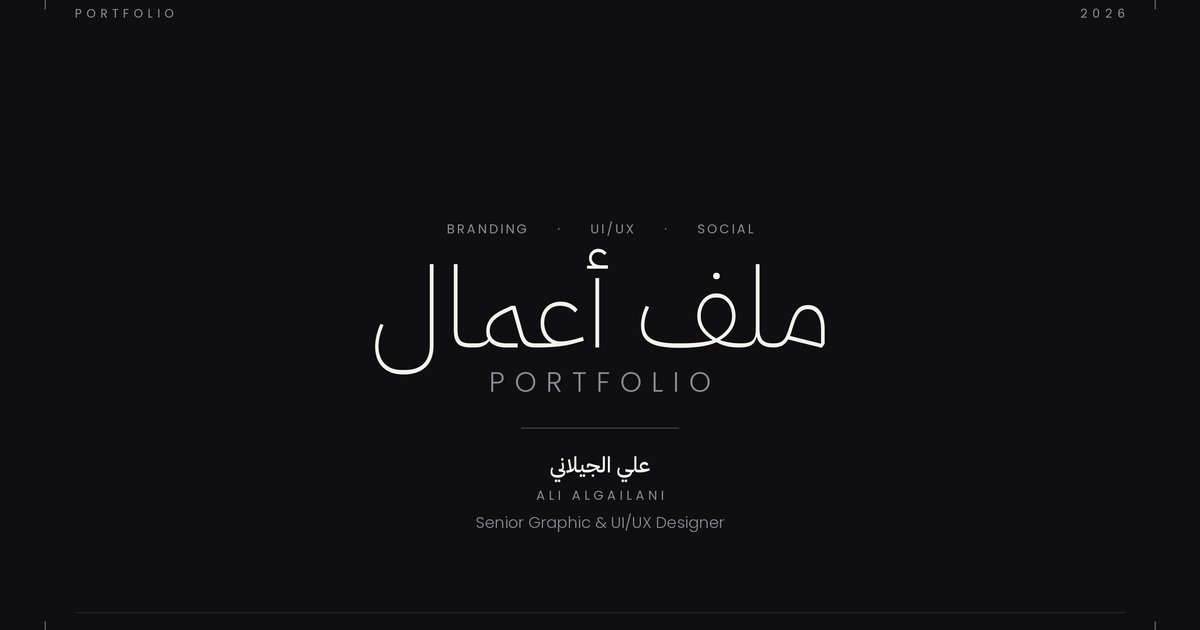
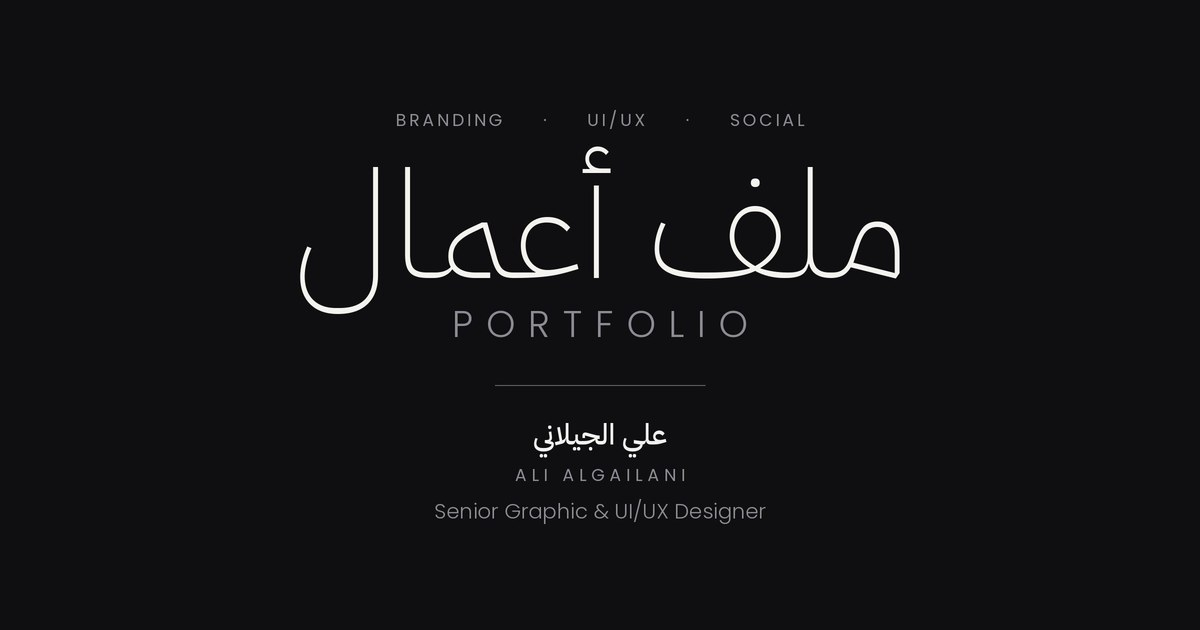
Link previews: absolute share image, Arabic-first title and description
WhatsApp, X and LinkedIn need absolute og:image URLs to show a preview card.
Recut og.jpg from the portfolio cover (1200x630), added og:url, site name,
image alt, locales and a canonical link.

Claude-Session: https://claude.ai/code/session_01QDdZxJhtLLmVgTgWh1AcoM

diff --git a/index.html b/index.html
@@ -7,21 +7,27 @@
     <meta name="description" content="Portfolio of Ali Algailani (علي الجيلاني), Senior Graphic &amp; UI/UX Designer in Saudi Arabia — logos, visual identities, mobile app UI/UX, corporate profiles, print and social media design." />
     <meta name="author" content="Ali Algailani" />
     <meta name="theme-color" content="#111113" />
+    <link rel="canonical" href="https://ali-algailani-portfolio-2026.vercel.app/" />
     <meta name="color-scheme" content="dark light" />
     <link rel="icon" href="favicon.svg" type="image/svg+xml" />
 
     <meta property="og:type" content="website" />
-    <meta property="og:title" content="Ali Al-Gailani — Senior Graphic &amp; UI/UX Designer" />
-    <meta property="og:description" content="Logos, visual identities, UI/UX, company profiles, print and social media — the 2026 portfolio of Ali Algailani." />
-    <meta property="og:image" content="og.jpg" />
+    <meta property="og:title" content="علي الجيلاني | Ali Algailani — مصمم جرافيك وواجهات مستخدم أول" />
+    <meta property="og:description" content="ملف أعمال 2026: شعارات، هويات بصرية، واجهات تطبيقات، بروفايلات شركات، مطبوعات وسوشيال ميديا. Senior Graphic &amp; UI/UX Designer — Saudi Arabia." />
+    <meta property="og:url" content="https://ali-algailani-portfolio-2026.vercel.app/" />
+    <meta property="og:site_name" content="Ali Algailani — Portfolio 2026" />
+    <meta property="og:image" content="https://ali-algailani-portfolio-2026.vercel.app/og.jpg" />
+    <meta property="og:image:secure_url" content="https://ali-algailani-portfolio-2026.vercel.app/og.jpg" />
+    <meta property="og:image:type" content="image/jpeg" />
+    <meta property="og:image:alt" content="ملف أعمال — Portfolio 2026 · علي الجيلاني · Ali Algailani" />
     <meta property="og:image:width" content="1200" />
     <meta property="og:image:height" content="630" />
-    <meta property="og:locale" content="en_US" />
-    <meta property="og:locale:alternate" content="ar_SA" />
+    <meta property="og:locale" content="ar_SA" />
+    <meta property="og:locale:alternate" content="en_US" />
     <meta name="twitter:card" content="summary_large_image" />
-    <meta name="twitter:title" content="Ali Al-Gailani — Senior Graphic &amp; UI/UX Designer" />
-    <meta name="twitter:description" content="Logos, visual identities, UI/UX, company profiles, print and social media — the 2026 portfolio of Ali Algailani." />
-    <meta name="twitter:image" content="og.jpg" />
+    <meta name="twitter:title" content="علي الجيلاني | Ali Algailani — مصمم جرافيك وواجهات مستخدم أول" />
+    <meta name="twitter:description" content="ملف أعمال 2026: شعارات، هويات بصرية، واجهات تطبيقات، بروفايلات شركات، مطبوعات وسوشيال ميديا. Senior Graphic &amp; UI/UX Designer — Saudi Arabia." />
+    <meta name="twitter:image" content="https://ali-algailani-portfolio-2026.vercel.app/og.jpg" />
 
     <script type="application/ld+json">
       {
